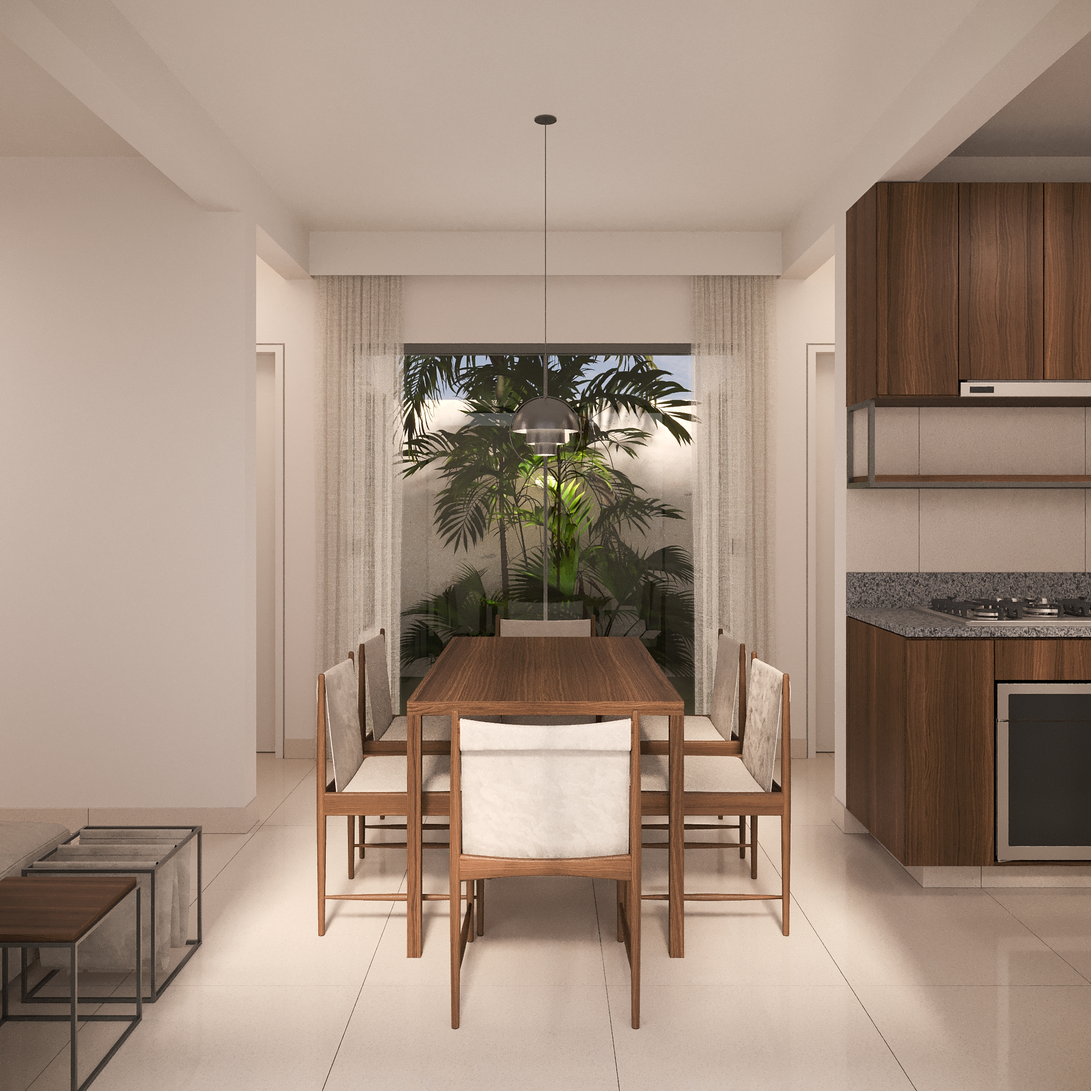
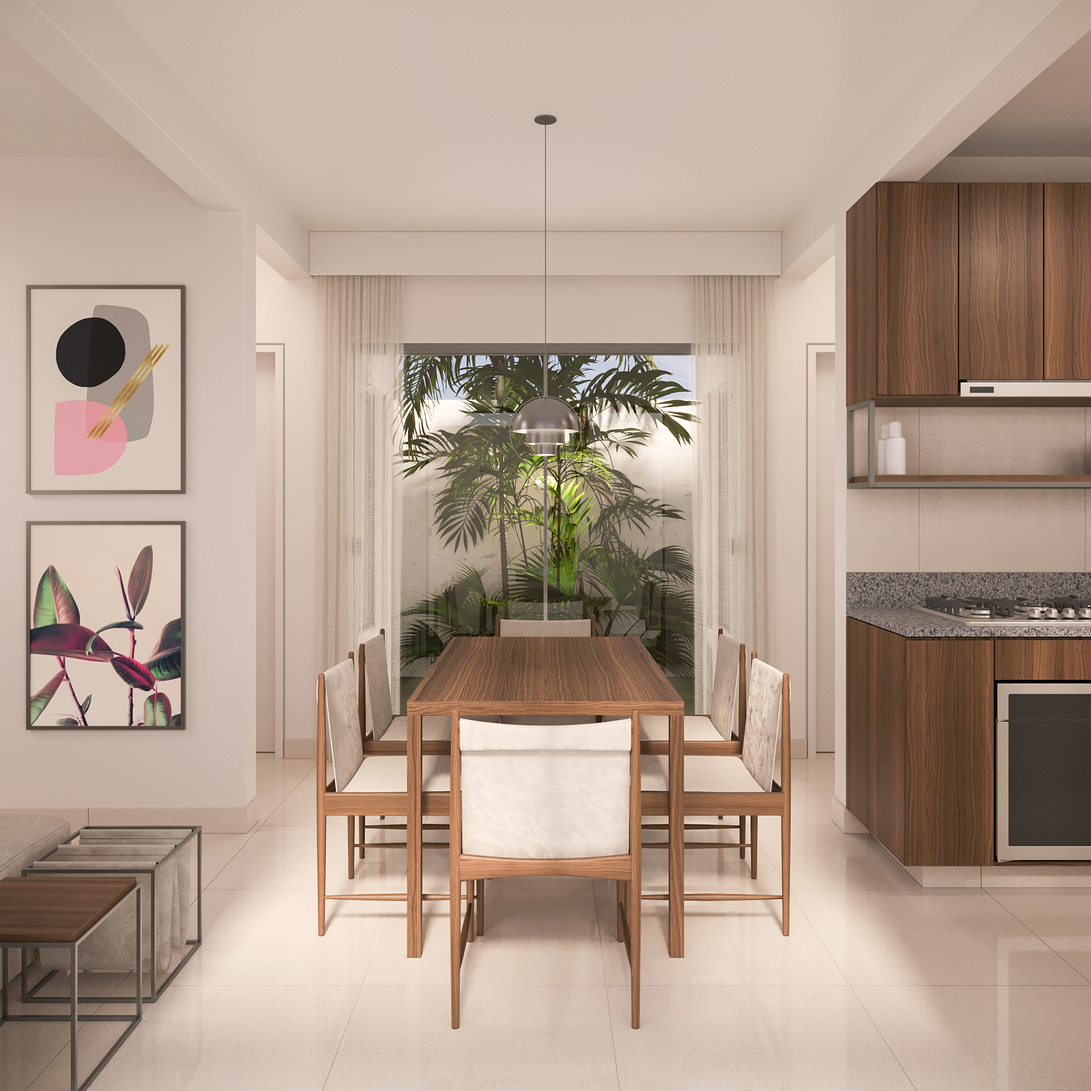
updateHogar

diff --git a/contact.html b/contact.html
@@ -44,7 +44,7 @@
 					<div id="main">
 						<div class="inner">
 							<h1>Sobre</h1>
-							<p>ctrl+n é um estúdio de visualização arquitetônica que oferece modelgaem, texturização, iluminação, ambientação, renderização e pós produção do seu projeto.</p>
+							<p>ctrl+n é um estúdio de visualização arquitetônica que oferece modelagem, texturização, iluminação, ambientação, renderização e pós produção do seu projeto.</p>
 							<p>pacote mínimo: 3 imagens | R$1000,00</p>
 						</div>
 					</div>
@@ -54,7 +54,7 @@
 						<div class="inner">
 							<section>
 								<h2>entre em contato</h2>
-								<form method="post" action="#">
+								<form method="post" action="https://formsubmit.co/contato@ctrln.studio">
 									<div class="fields">
 										<div class="field half">
 											<input type="text" name="name" id="name" placeholder="nome" />
@@ -71,23 +71,6 @@
 									</ul>
 								</form>
 							</section>
-
-							<!--
-							<section>
-								<h2>Siga</h2>
-								<ul class="icons">
-									<li><a href="#" class="icon brands style2 fa-twitter"><span class="label">Twitter</span></a></li>
-									<li><a href="#" class="icon brands style2 fa-facebook-f"><span class="label">Facebook</span></a></li>
-									<li><a href="#" class="icon brands style2 fa-instagram"><span class="label">Instagram</span></a></li>
-									<li><a href="#" class="icon brands style2 fa-dribbble"><span class="label">Dribbble</span></a></li>
-									<li><a href="#" class="icon brands style2 fa-github"><span class="label">GitHub</span></a></li>
-									<li><a href="#" class="icon brands style2 fa-500px"><span class="label">500px</span></a></li>
-									<li><a href="#" class="icon solid style2 fa-phone"><span class="label">Phone</span></a></li>
-									<li><a href="#" class="icon solid style2 fa-envelope"><span class="label">Email</span></a></li>
-								</ul>
-							</section>
-							-->
-
 							<ul class="copyright">
 								<li>&copy; ctrl+n. all rights reserved</li><li>design: <a href="http://html5up.net">HTML5 UP</a></li>
 							</ul>

diff --git a/hogar.html b/hogar.html
@@ -49,6 +49,8 @@
 							<span class="image main"><img src="images/hogar2.jpg" alt="" /></span>
 							<span class="image main"><img src="images/hogar3.jpg" alt="" /></span>
 							<span class="image main"><img src="images/hogar4.jpg" alt="" /></span>
+							<span class="image main"><img src="images/hogar5.jpg" alt="" /></span>
+							<span class="image main"><img src="images/hogar6.jpg" alt="" /></span>
 							<p>residência unifamiliar em terreno de 165m²<br />
 								cozinha e salas integradas, 2 quartos, banheiro e lavanderia distribuídos em 67,5m²<br />
 								garagem coberta para 2 carros, previsão para piscina e 52m² de área permeável</p>
